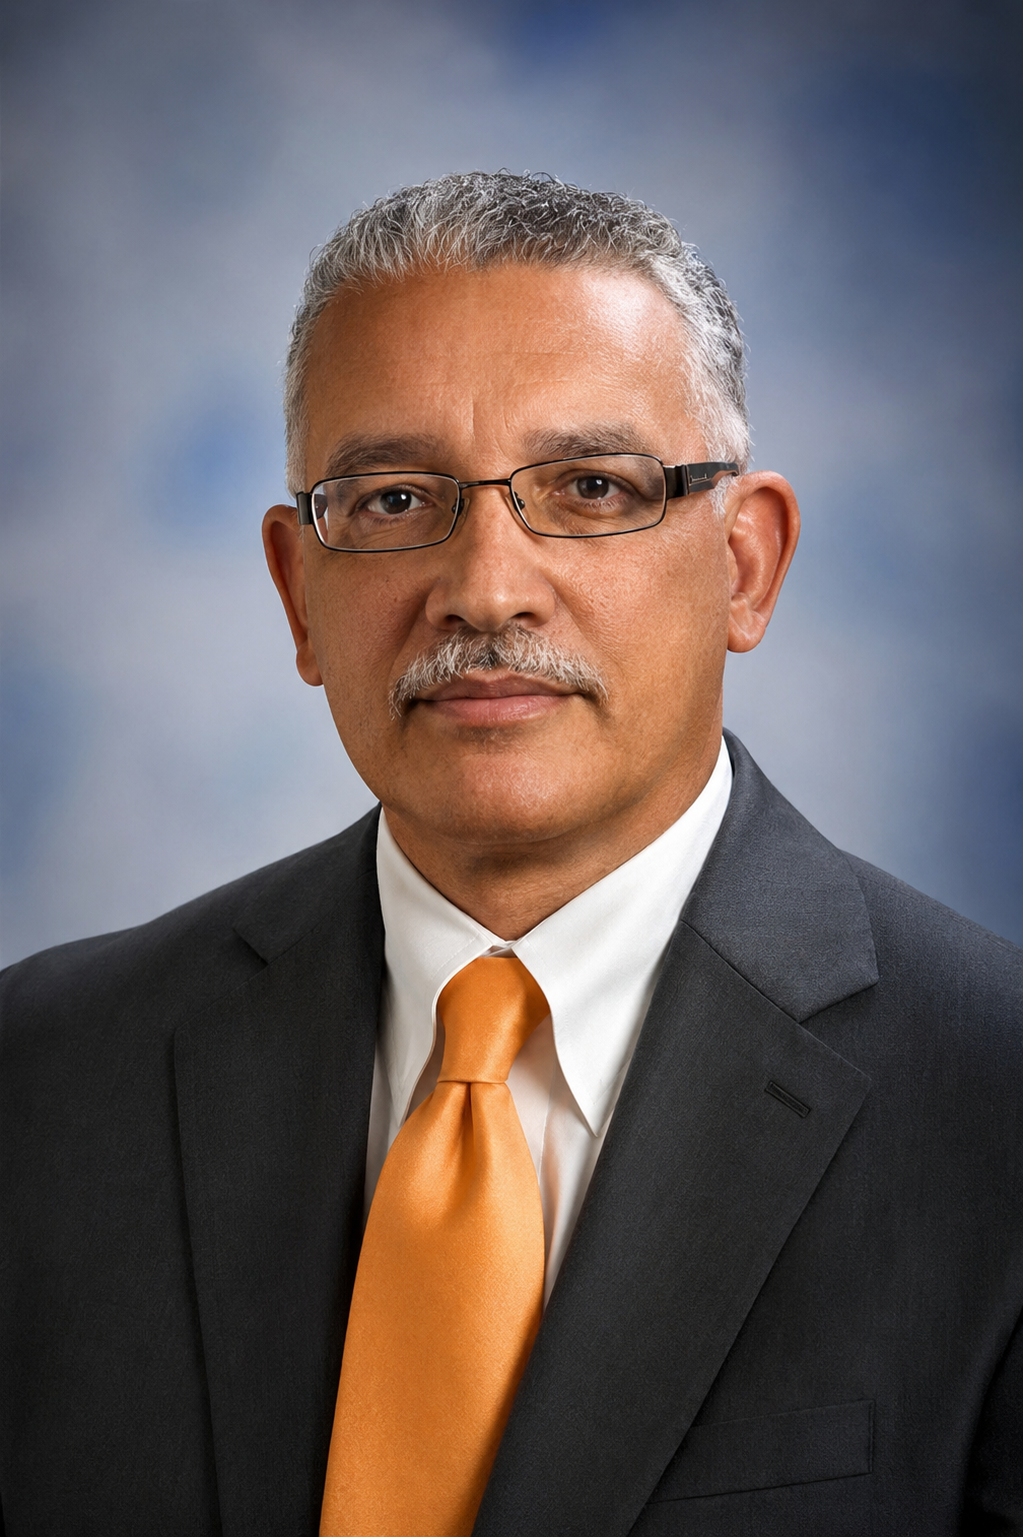
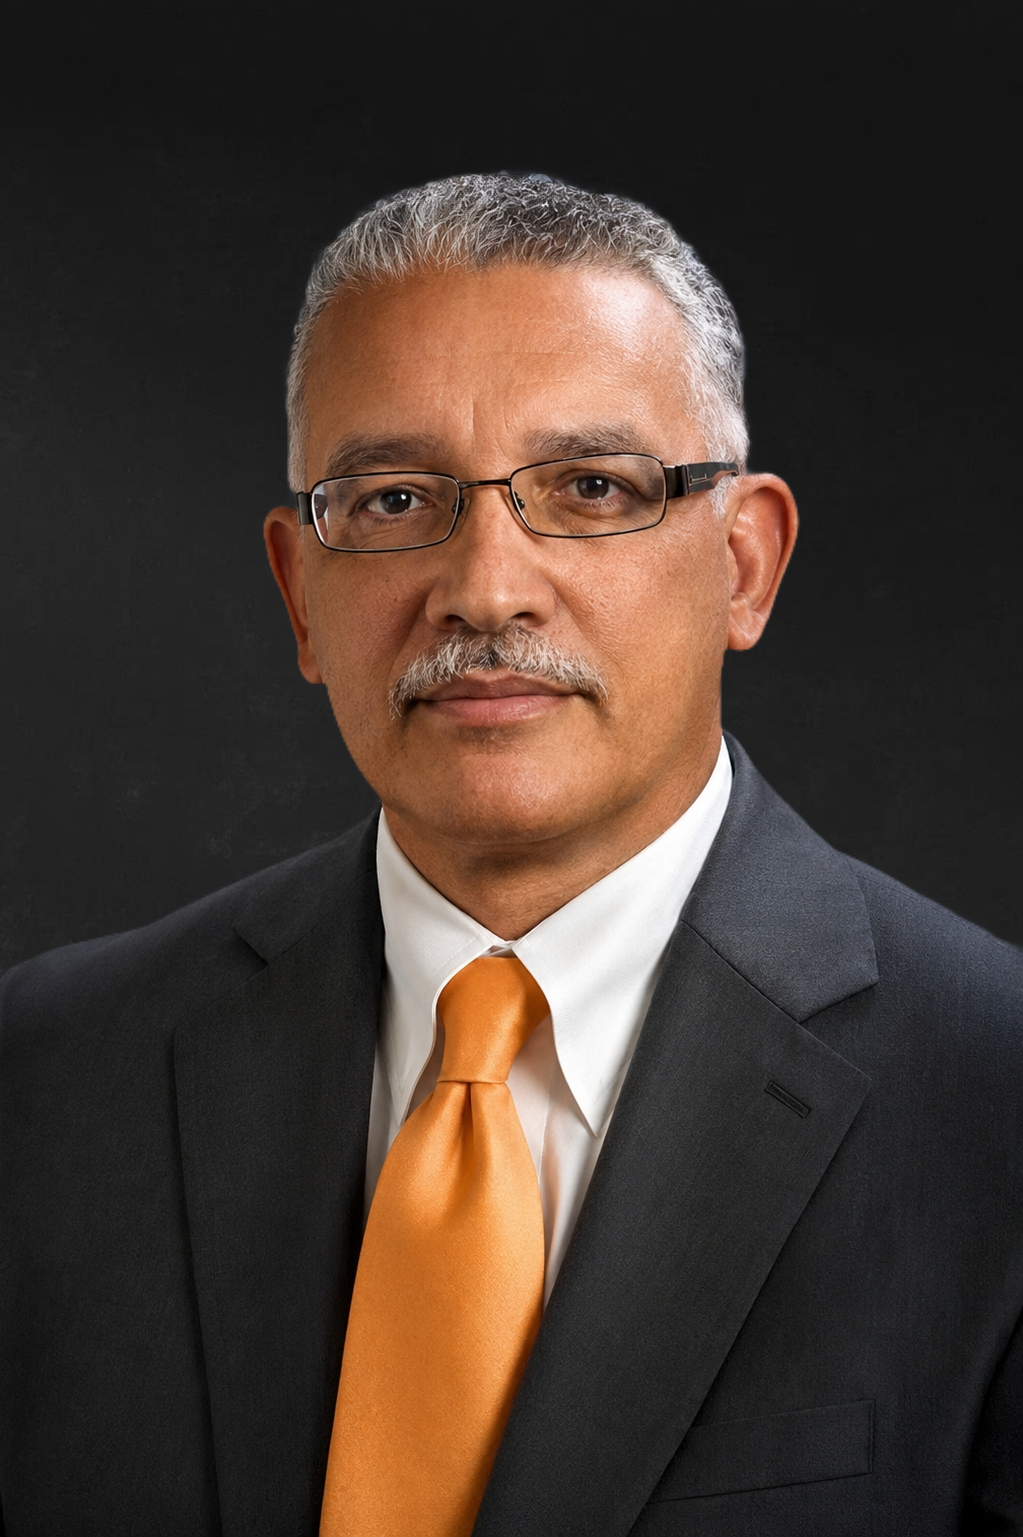
Update Warren Carson photo background; add Colin Thompson photo

diff --git a/tryon-history-museum/src/components/BoardSection.jsx b/tryon-history-museum/src/components/BoardSection.jsx
@@ -71,7 +71,7 @@ const boardMembers = [
     name: "Colin Thompson",
     title: "Board Member",
     term: "2028",
-    photo: null,
+    photo: "/board/colin-thompson.png",
     bio: "Colin Thompson is an Upstate South Carolina native with deep family roots in Western North Carolina and the Tryon area. After spending his career leading teams and organizations across both corporate and small business environments, Colin returned to Tryon over a year ago to take over and be a thoughtful steward of his family home. He joined the Tryon History Museum Board as its newest\u2014and youngest\u2014member, proudly lowering the average age of the Board by about a decade and underscoring the importance of service and stewardship at every stage of life. Colin is honored to serve and is committed to helping preserve and share the region\u2019s rich history for future generations.",
   },
 ];
